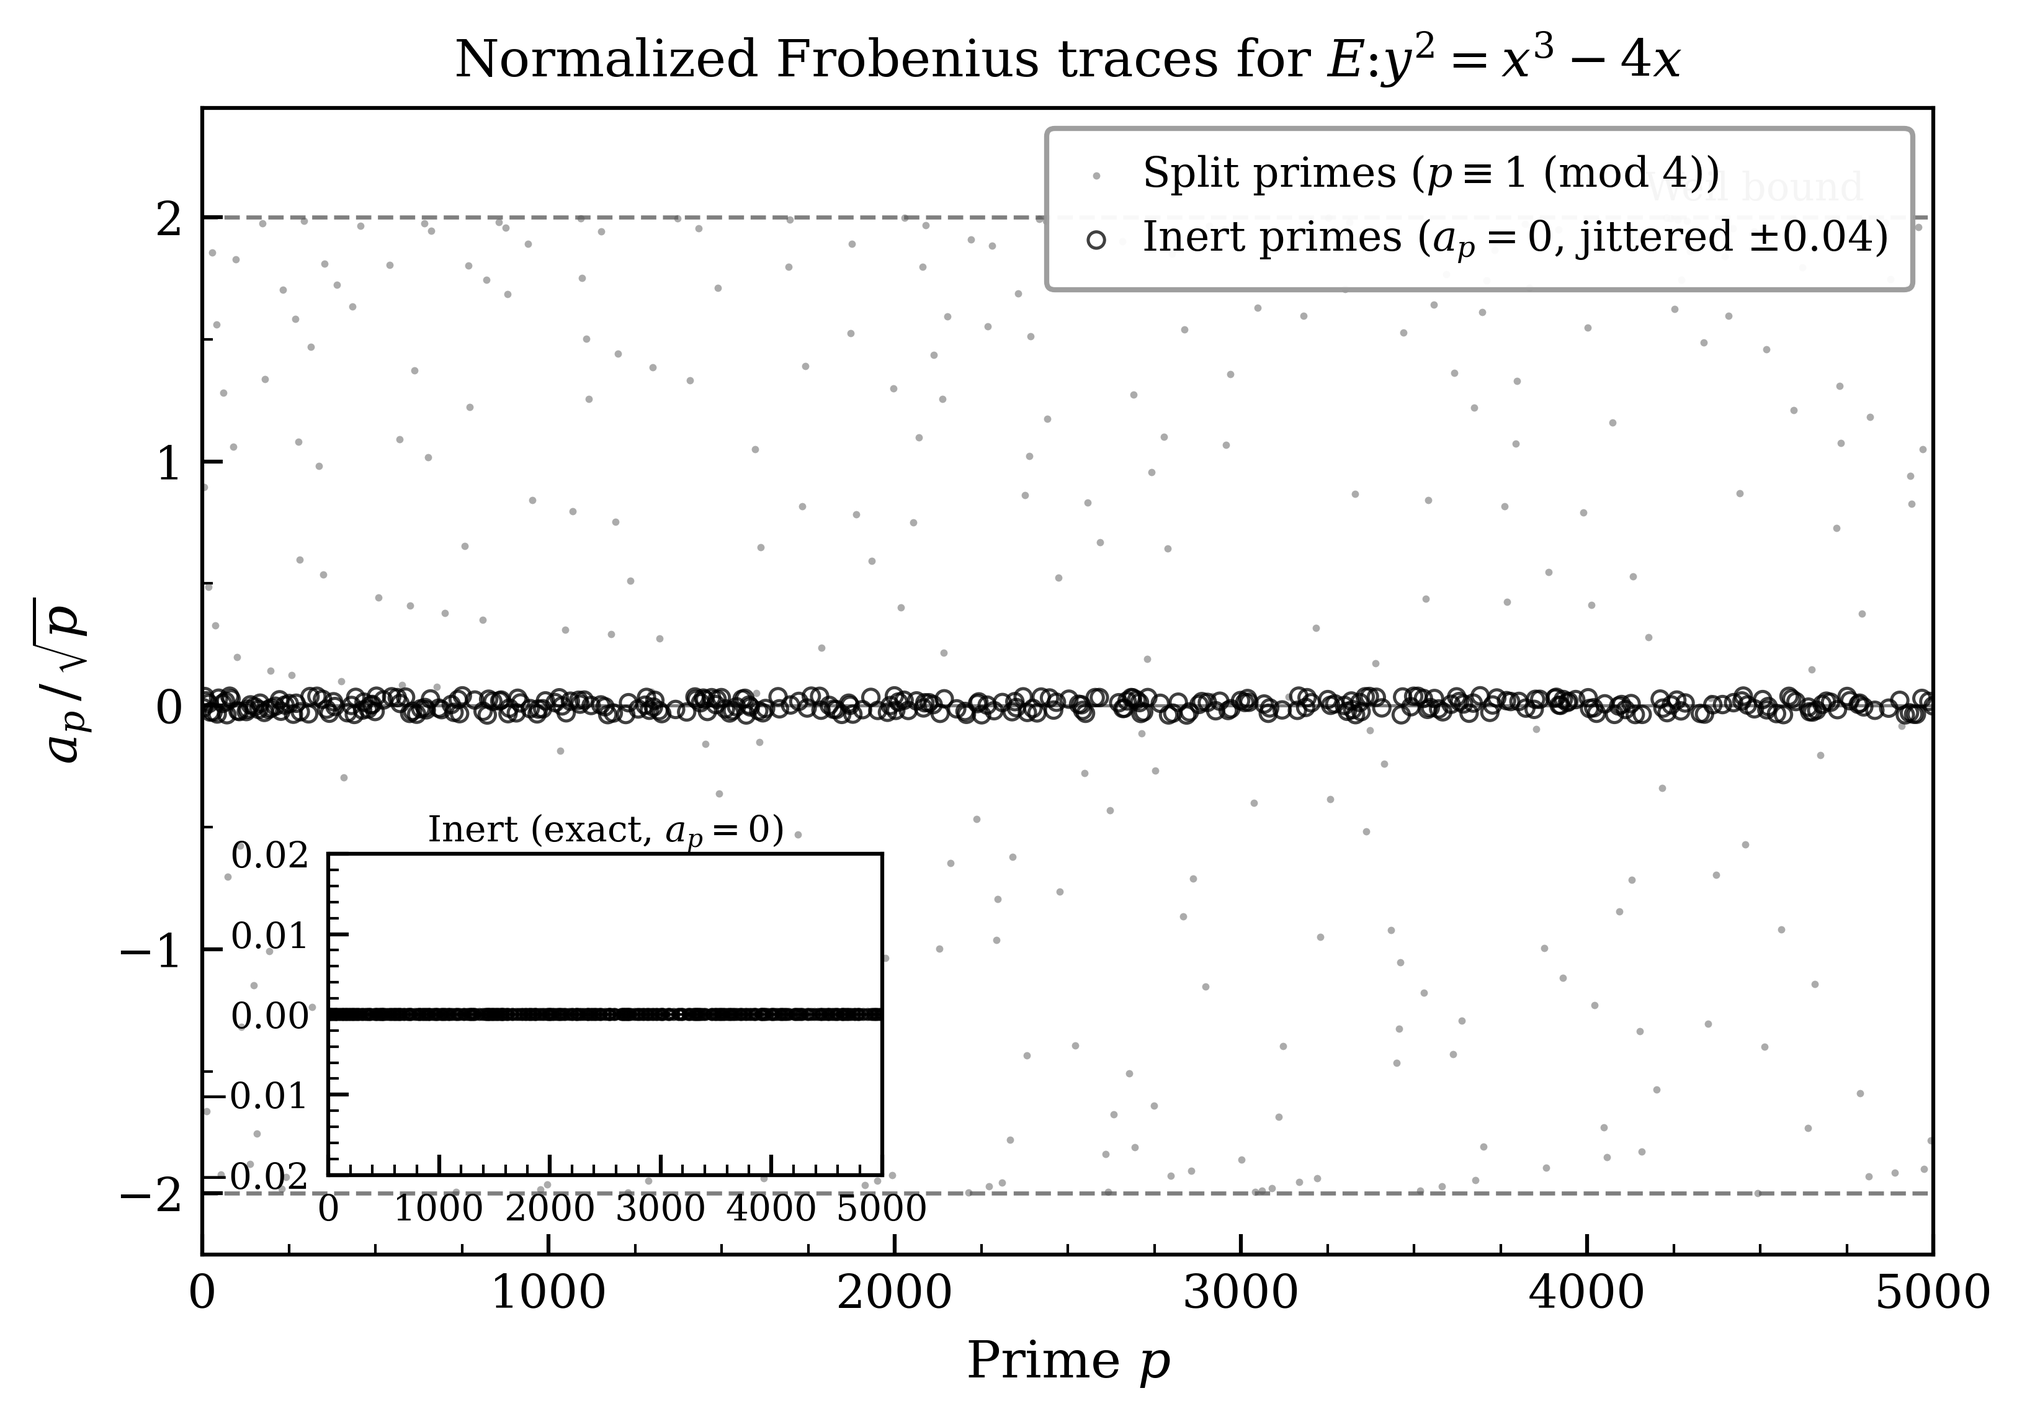
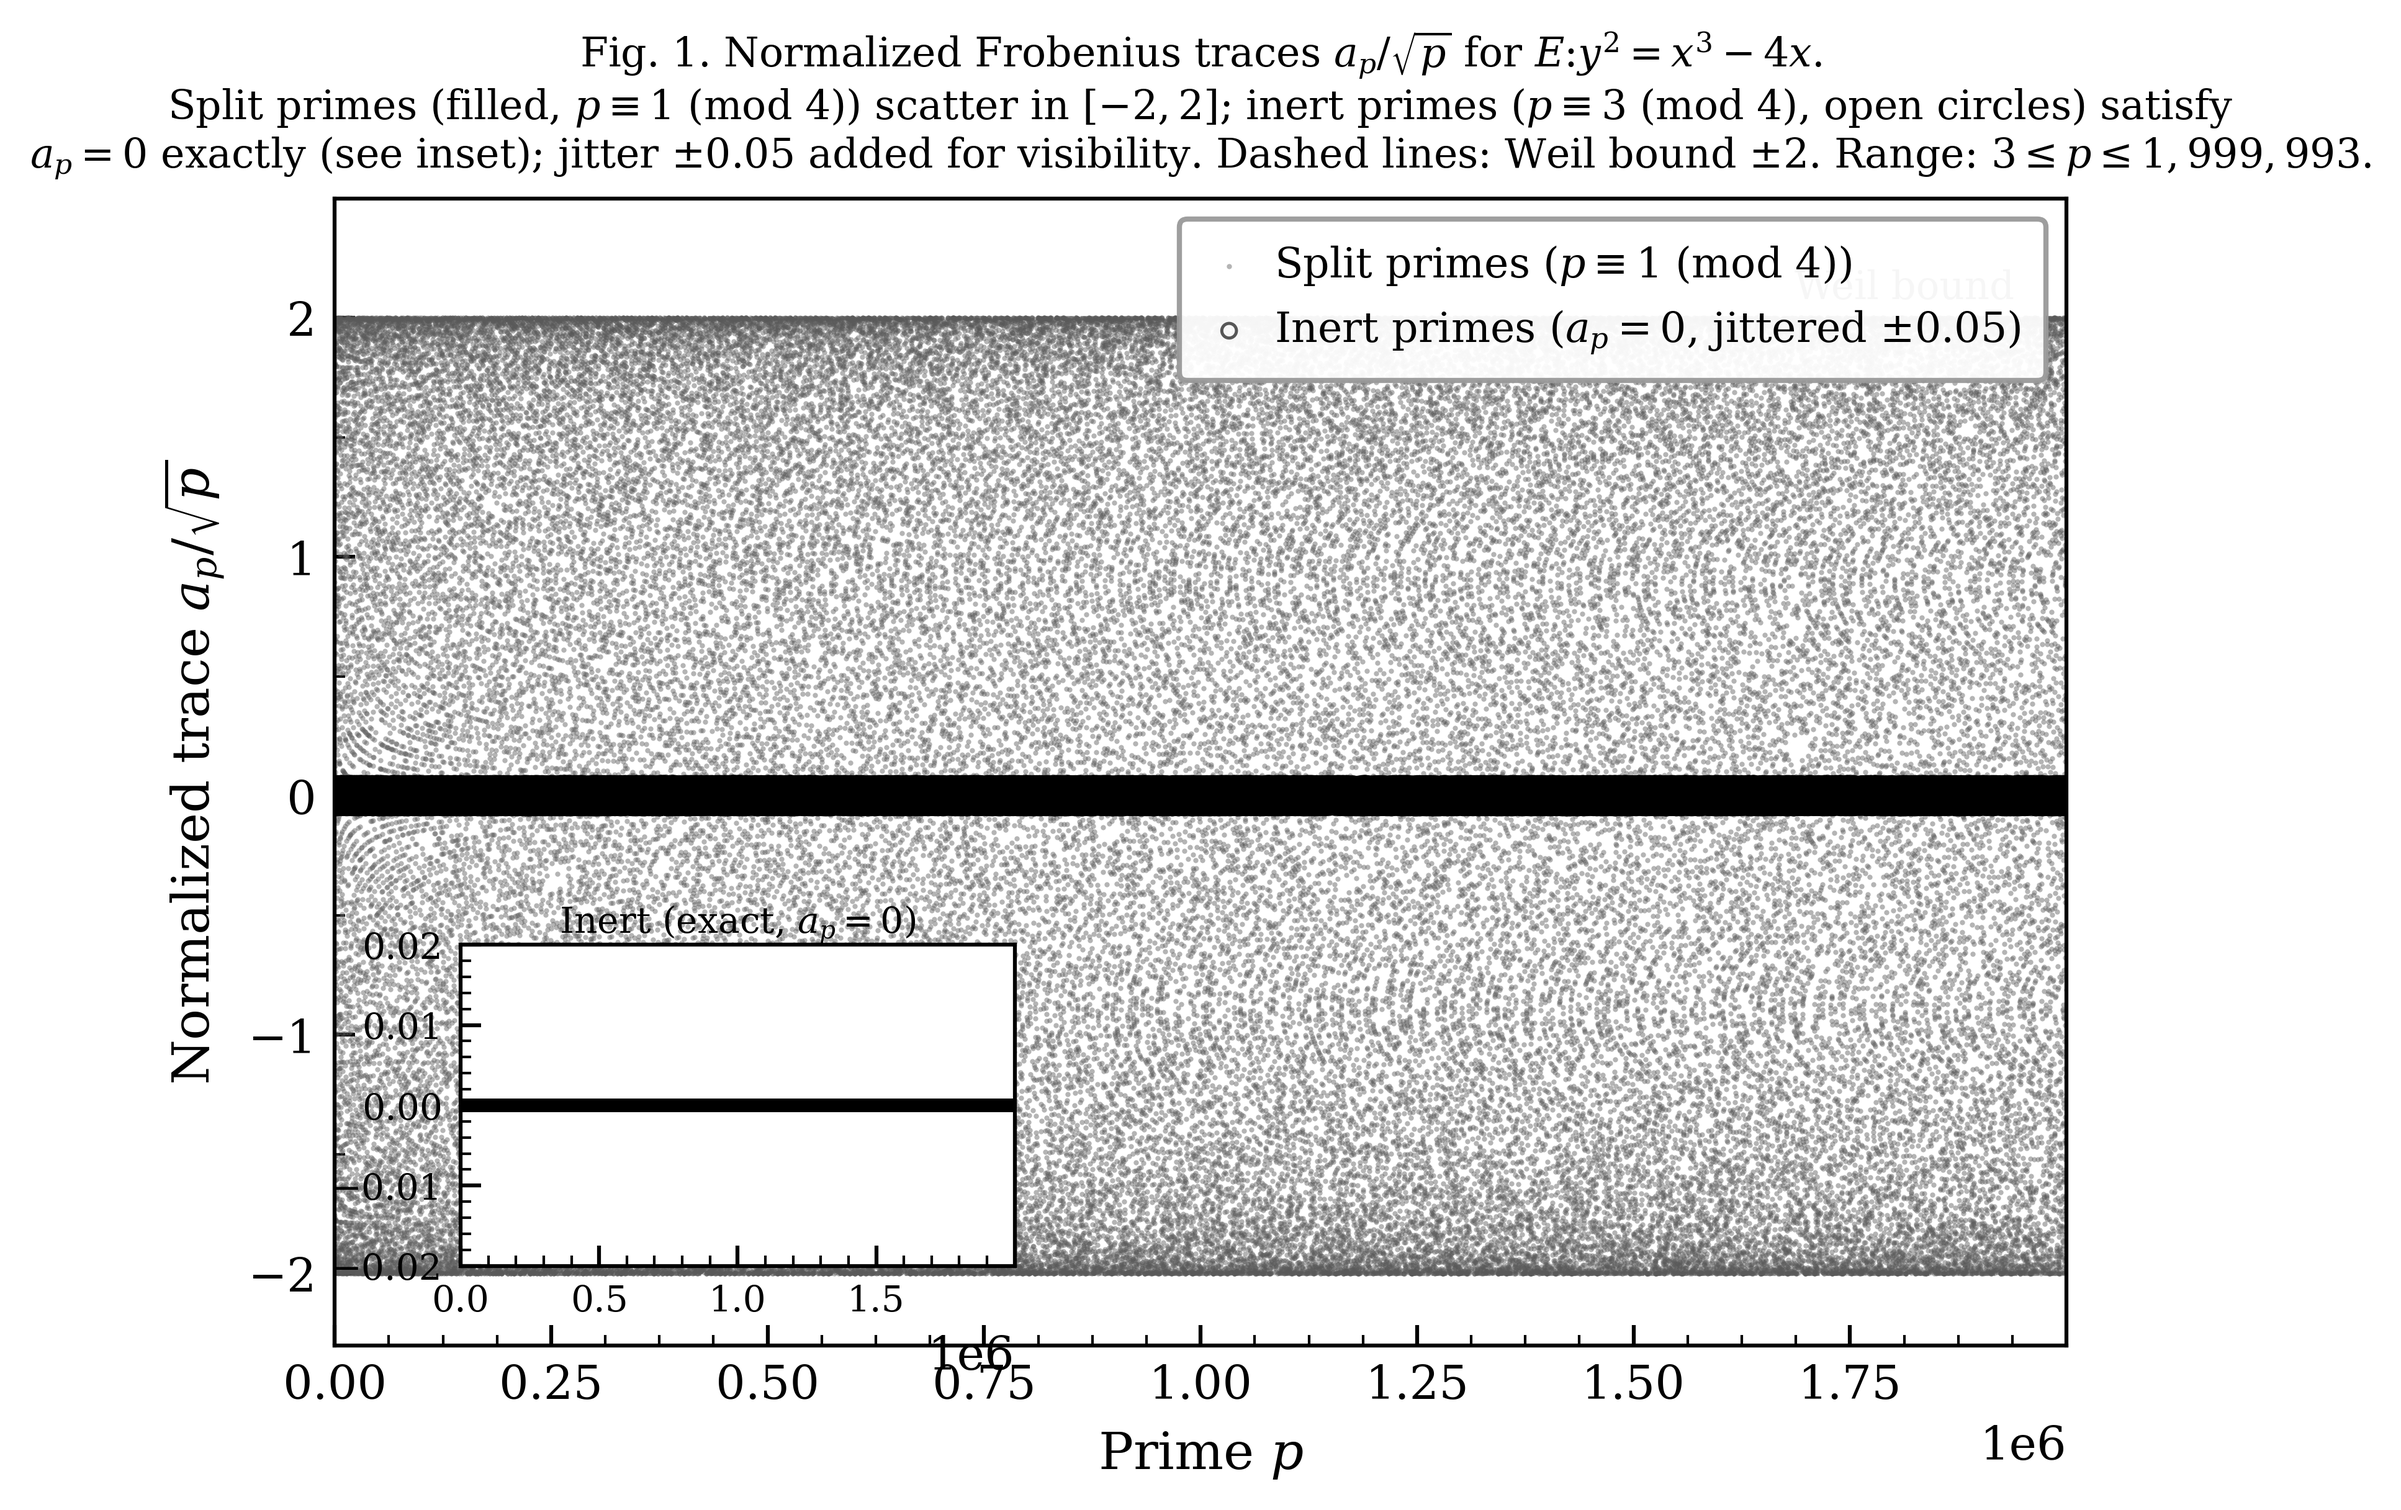
fix: update figures with full dataset

diff --git a/paper/fibonacci_paper_v2.tex b/paper/fibonacci_paper_v2.tex
@@ -1435,7 +1435,8 @@ The author declares no conflict of interest.
 The computational data and source code supporting the findings of this
 study are provided in the Supplementary Material (Python source, CSV
 dataset, and Excel summary). The code is also publicly available at
-\url{https://github.com/majidghandali/fibonacci-cm-elliptic}.
+\url{https://github.com/Majid-Ghandali/fibonacci-cm-elliptic}
+(DOI: \href{https://doi.org/10.5281/zenodo.18764803}{10.5281/zenodo.18764803}).
 
 \bibliographystyle{unsrtnat}
 \bibliography{references}

diff --git a/src/fibonacci_cm/reporting.py b/src/fibonacci_cm/reporting.py
@@ -74,7 +74,7 @@ def save_excel(df: pd.DataFrame, xlsx_path: str) -> None:
             "Hasse bound (theoretical)",
         ],
         "Value": [
-            "Ghandali (2025) — Quadratic Residuosity in Fibonacci Sequences",
+            "Ghandali (2026) — Quadratic Residuosity in Fibonacci Sequences",
             f"3 to {int(df['p'].max()):,}",
             f"{n_total:,}",
             f"{n_split:,}",

diff --git a/README .md b/README .md
@@ -1,0 +1,174 @@
+# fibonacci-cm-elliptic
+
+**Numerical verification of the identity $S_p = -a_p(E)$ for Fibonacci character sums and the CM elliptic curve $E: y^2 = x^3 - 4x$.**
+
+[![Python 3.10+](https://img.shields.io/badge/python-3.10+-blue.svg)](https://www.python.org/)
+[![License: MIT](https://img.shields.io/badge/License-MIT-green.svg)](LICENSE)
+[![DOI](https://zenodo.org/badge/DOI/10.5281/zenodo.18764803.svg)](https://doi.org/10.5281/zenodo.18764803)
+[![Tests](https://img.shields.io/badge/tests-12%20passing-brightgreen.svg)](tests/)
+
+---
+
+## 📄 Paper
+
+> Ghandali, M. (2026). *Quadratic Residuosity in Fibonacci Sequences:
+> Arithmetic Structure via CM Elliptic Curves and Twisted Character Sums.*
+
+**Main result (Theorem 1.3):** For every prime $p > 5$ inert in $\mathbb{Q}(\sqrt{5})$,
+
+$$S_p := \sum_{n=1}^{p+1} \chi(F_n \bmod p) = -a_p(E)$$
+
+where $\chi$ is the Legendre symbol mod $p$ and $a_p(E) = p+1 - \#E(\mathbb{F}_p)$ is the Frobenius trace of $E$.
+
+---
+
+## 📁 Repository Structure
+
+```
+fibonacci-cm-elliptic/
+│
+├── src/fibonacci_cm/
+│   ├── __init__.py       # Package metadata
+│   ├── arithmetic.py     # Pisano period, QR table, Frobenius trace (Numba JIT)
+│   ├── pipeline.py       # Parallel prime processing, fault-tolerant CSV streaming
+│   ├── reporting.py      # Excel report generation, console summary
+│   └── figures.py        # Three publication-ready figures (600 dpi)
+│
+├── tests/
+│   └── test_arithmetic.py   # 12 unit tests (pytest)
+│
+├── paper/
+│   ├── fibonacci_paper_v2.tex        # Main article (AMS LaTeX)
+│   ├── supplementary_material.tex    # Supplementary Material
+│   └── references.bib                # Bibliography (15 entries)
+│
+├── data/figures/         # Pre-generated publication figures (600 dpi PNG)
+├── main.py               # Entry point
+├── requirements.txt      # Python dependencies
+└── README.md
+```
+
+---
+
+## ⚡ Quick Start
+
+### 1. Clone and install
+
+```bash
+git clone https://github.com/Majid-Ghandali/fibonacci-cm-elliptic.git
+cd fibonacci-cm-elliptic
+pip install -r requirements.txt
+```
+
+### 2. Run the computation
+
+```bash
+python main.py
+```
+
+You will be prompted:
+
+```
+[Mode] Choose execution mode:
+  (1) RESUME  : Continue from the last saved prime.
+  (2) RESTART : Clear existing data and start fresh.
+  (3) PLOT    : Regenerate figures from existing dataset.
+
+Upper bound for primes (default: 100000):
+```
+
+### 3. Verify the main identity
+
+```python
+import pandas as pd
+
+df = pd.read_csv("CM_Research_Outputs/Dataset_Raw_Primes.csv")
+inert = df[df["type"] == "inert"]
+assert (inert["a_p"] == 0).all()
+print(f"Identity S_p = -a_p(E) verified for all {len(inert):,} inert primes.")
+```
+
+Expected output:
+```
+Identity S_p = -a_p(E) verified for all 74,516 inert primes.
+```
+
+### 4. Run tests
+
+```bash
+pytest tests/ -v
+```
+
+---
+
+## 📊 Numerical Results
+
+All computations verified for **148,932 primes**, $3 \le p \le 1{,}999{,}993$:
+
+| Statistic | Value |
+|---|---|
+| Total primes verified | 148,932 |
+| Split primes ($p \equiv 1 \pmod{4}$) | 74,416 |
+| Inert primes ($p \equiv 3 \pmod{4}$) | 74,516 |
+| CM property ($a_p = 0$ for all inert) | ✅ exact |
+| Empirical inert ratio | 0.500336 (theory: 0.500000) |
+| Chebotarev deviation | < 0.07% |
+| Max Weil ratio $|a_p|/(2\sqrt{p})$ | 0.999999 < 1 |
+| Runtime | ≈ 11 min (15 cores, Numba JIT) |
+
+---
+
+## 🖼 Figures
+
+| Figure | Description |
+|---|---|
+| `Fig1_Trace_Analysis.png` | Frobenius trace scatter: split vs inert primes |
+| `Fig2_SatoTate.png` | Empirical distribution vs CM Sato–Tate density |
+| `Fig3_Convergence.png` | Chebotarev density convergence to 1/2 |
+
+Pre-generated figures available in `data/figures/` (600 dpi, publication-ready).
+
+---
+
+## 📚 Citation
+
+```bibtex
+@software{Ghandali2026,
+  author    = {Ghandali, Majid},
+  title     = {Quadratic Residuosity in {F}ibonacci Sequences:
+               Arithmetic Structure via {CM} Elliptic Curves
+               and Twisted Character Sums},
+  year      = {2026},
+  doi       = {10.5281/zenodo.18764803},
+  url       = {https://github.com/Majid-Ghandali/fibonacci-cm-elliptic},
+  version   = {v1.0.0},
+  note      = {Preprint}
+}
+```
+
+**For CV / résumé:**
+> Ghandali, M. (2026). *Fibonacci CM Elliptic Curve Analysis*
+> (DOI: 10.5281/zenodo.18764803).
+> Numerical verification of CM elliptic curve identities
+> for 148,932 primes in the context of Fibonacci quadratic residuosity.
+
+---
+
+## ⚙ Requirements
+
+```
+numpy>=1.24
+pandas>=2.0
+numba>=0.57
+sympy>=1.12
+matplotlib>=3.7
+tqdm>=4.65
+openpyxl>=3.1
+pytest>=7.0
+```
+
+---
+
+## 📜 License
+
+MIT License — see [LICENSE](LICENSE) for details.
